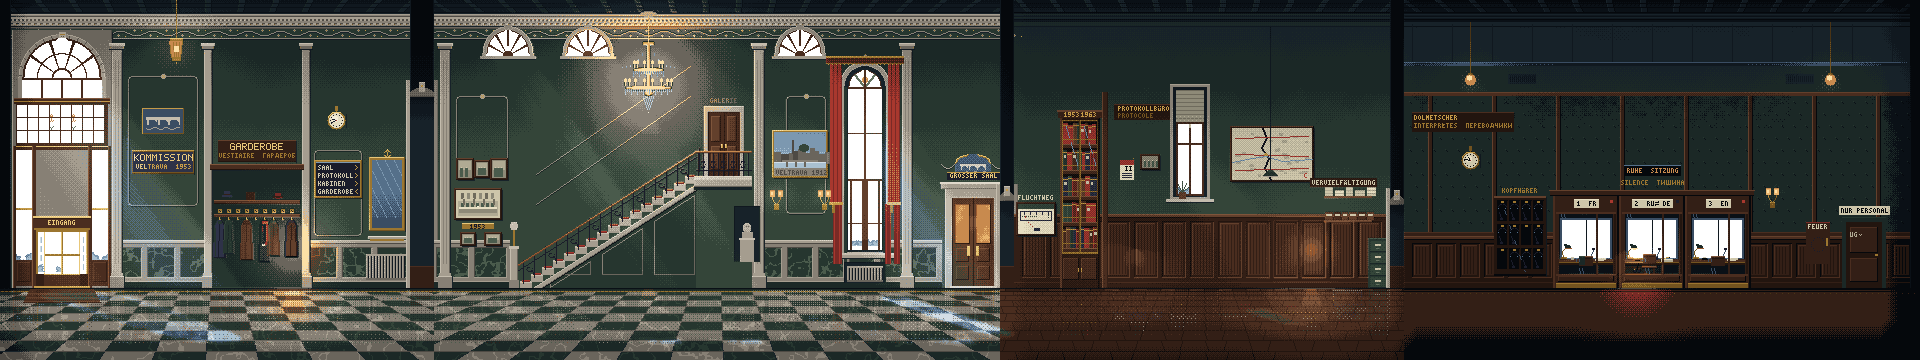
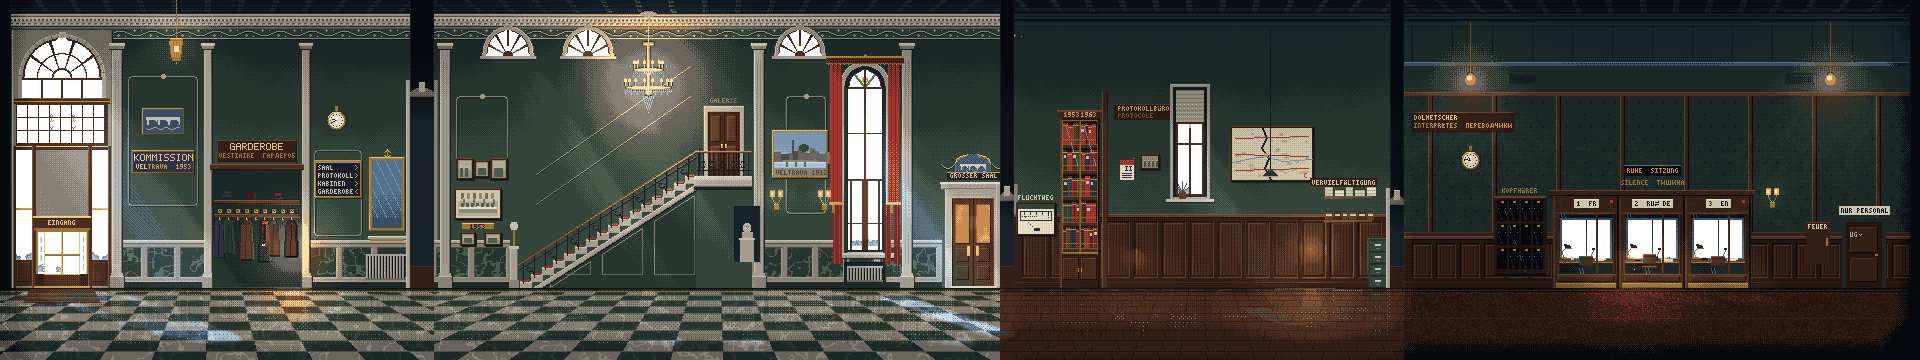
C3 palais art: per-room daylight shafts, cold light through the booth glass, calmer corridor
- window_shafts normalises per room (vestibule / foyer / office / interpreters), so the foyer and
  office windows keep readable dithered shafts next to the big entrance glazing; the veil is stronger
- the booth windows to the daylit Grosser Saal are shaft sources (cold light on the corridor floor)
- interpreters' corridor: less ambient darkening, brighter opal globes, quilted wall lighter,
  carpet painted on the walnut ramp so the booth-2 lamp pool is warm brown, not saturated red
- generation date 2026-11-05 (deterministic: two runs give identical files)

Claude-Session: https://claude.ai/code/session_01Qa4S53QJHqFeoKXkiRwvcM

diff --git a/tools/pixelgen/env_veltrava_hall_room.py b/tools/pixelgen/env_veltrava_hall_room.py
@@ -1320,7 +1320,7 @@ class Room:
         self.wood_dado(x0, x1, top=236, panel_w=20)
         # acoustic wall: quilted dark-green leather bays between walnut battens
         uy0, uy1 = 96, 232
-        lay.rect(x0, uy0, x1 - x0, uy1 - uy0, 'G', 3.0, hgt=0.3)
+        lay.rect(x0, uy0, x1 - x0, uy1 - uy0, 'G', 3.4, hgt=0.3)
         for yy in range(uy0 + 6, uy1, 12):
             for xx in range(x0 + 6 + ((yy // 12) % 2) * 6, x1, 12):
                 lay.px(xx, yy, 'G', 1.6, hgt=0.2)                            # buttons
@@ -1351,7 +1351,7 @@ class Room:
             lay.ellipse(gx - 0.5, L.CEIL + 66, 2.5, 2.5, 'A', 4.6, emis=True)
             lay.rect(gx - 2, L.CEIL + 61, 5, 2, 'B', 3.4, hgt=0.7)
             self.lights.append({'name': 'globe_%d' % gx, 'pos': (gx, L.CEIL + 70), 'kind': 'warm',
-                                'energy': 0.4, 'radius': 96, 'height': 30})
+                                'energy': 0.8, 'radius': 140, 'height': 36})
         # interpreters' sign by the door
         sx = 1414
         lay.rect(sx - 2, 112, kit.text_width('INTERPRÈTES  ПЕРЕВОДЧИКИ') + 4, 20, 'D', 2.0, hgt=0.6)
@@ -1454,7 +1454,7 @@ class Room:
         lay.rect(fx0 - 2, wy0 - 2, fx1 - fx0 + 4, wy1 - wy0 + 3, 'S', 1.6, hgt=-0.5)
         win = np.ones((wy1 - wy0, fx1 - fx0), bool)
         win[:, (fx1 - fx0) // 2] = False
-        self.cut_glass(win, fx0, wy0)
+        self.cut_glass(win, fx0, wy0, shaft=0.35)      # the daylit Saal throws cold light into the corridor
         lay.rect(fx0 + (fx1 - fx0) // 2, wy0, 1, wy1 - wy0, 'S', 1.4, hgt=-0.5)
         self.saal_windows.append((fx0, wy0, fx1, wy1))
         # desk top (seen slightly from above), console, microphone
@@ -1478,7 +1478,7 @@ class Room:
         if lit:
             lay.line(lx + 2, dy - 14, lx + 8, dy - 14, 'A', 5.0, emis=True)
             lay.rect(lx + 4, dy - 13, 3, 1, 'A', 4.6, emis=True)
-            self.lights.append({'name': 'booth_2_lamp', 'pos': (lx + 5, dy - 12), 'kind': 'warm', 'energy': 1.7,
+            self.lights.append({'name': 'booth_2_lamp', 'pos': (lx + 5, dy - 12), 'kind': 'warm', 'energy': 1.4,
                                 'radius': 110, 'height': 10, 'cone': (0.25, 1.0, -0.25)})
         else:
             lay.line(lx + 2, dy - 14, lx + 8, dy - 14, 'A', 2.4, emis=True)
@@ -1628,7 +1628,9 @@ class Room:
             lay.rect(ox0, ra, ox1 - ox0, 1, 'D', 1.6, hgt=0.0)
         # --- interpreters' corridor: wine-dark carpet with a border
         ix0 = L.PART3[1]
-        lay.rect(ix0, y0, W - ix0, H - y0, 'R', 1.6, hgt=0.0)
+        # wine-dark wool: painted on the walnut ramp (same base colour #331F16) so lamp light lifts it to a
+        # warm brown pool instead of a saturated red one; the wine accents are the border and the pile
+        lay.rect(ix0, y0, W - ix0, H - y0, 'D', 2.3, hgt=0.0, gain=0.9)
         tex = pg.white_noise(W - ix0, H - y0, 5)
         lay.put(tex > 0.7, ix0, y0, 'R', 1.9, hgt=0.0)
         for (by, t) in ((y0 + 2, 2.4), (y0 + 3, 1.2), (y0 + 30, 2.2)):
@@ -1652,8 +1654,8 @@ class Room:
         f = np.zeros((H, W), np.float32)
         xs = np.arange(W, dtype=np.float32)
         reg = np.zeros(W, np.float32)
-        reg[L.OFFICE[0]:] = -0.5
-        reg[L.INTERP[0]:] = -1.1
+        reg[L.OFFICE[0]:] = -0.4
+        reg[L.INTERP[0]:] = -0.75
         k = np.ones(25, np.float32) / 25
         reg = np.convolve(np.pad(reg, 12, mode='edge'), k, mode='valid')
         f += reg[None, :]
@@ -1682,38 +1684,53 @@ class Room:
 # =========================================================================== shafts
 def window_shafts(sources, w=L.WORLD_W, h=L.WORLD_H, ax=0.85, kz=0.32):
     """Volumetric daylight from back-wall glass (3-D rays projected to the side view).
-    Returns (air density, floor landing), both ~[0, 1]."""
+    Returns (air density, floor landing), both ~[0, 1].
+    Sources are normalised PER ROOM (vestibule / foyer / office / interpreters): the huge entrance
+    glazing must not drown the single foyer window or the office window, and every room keeps a
+    readable shaft; the strongest source strength of a room sets that room's peak."""
     air = np.zeros((h, w), np.float32)
     land = np.zeros((h, w), np.float32)
-    for (mask, x0, y0, strength) in sources:
-        gy, gx = np.nonzero(mask)
-        if len(gx) == 0:
-            continue
-        sub = max(1, len(gx) // 3000)
-        gy, gx = gy[::sub], gx[::sub]
-        xg = gx.astype(np.float32) + x0 + 0.5
-        yg = gy.astype(np.float32) + y0 + 0.5
-        tend = (L.FLOOR - yg) / (1 + kz)
-        tmax = int(tend.max()) + 1
-        wgt = strength * sub
-        for t in range(0, tmax):
-            alive = tend > t
-            if not alive.any():
-                break
-            sx = np.round(xg[alive] + ax * t).astype(np.int32)
-            sy = np.round(yg[alive] + t * (1 + kz)).astype(np.int32)
-            ok = (sx >= 0) & (sx < w) & (sy >= 0) & (sy < h)
-            np.add.at(air, (sy[ok], sx[ok]), wgt)
-        lx = np.round(xg + ax * tend).astype(np.int32)
-        ly = np.round(L.FLOOR + kz * tend * 0.9).astype(np.int32)
-        ok = (lx >= 0) & (lx < w) & (ly >= 0) & (ly < h)
-        np.add.at(land, (ly[ok], lx[ok]), wgt)
-    air = kit.box_blur(air, 2)
-    land = kit.box_blur(land, 2)
-    if (air > 0).any():
-        air /= max(1e-6, np.percentile(air[air > 0], 99.0))
-    if (land > 0).any():
-        land /= max(1e-6, np.percentile(land[land > 0], 96))
+    rooms = (L.VEST[1], L.FOYER[1], L.OFFICE[1], L.WORLD_W)
+    groups: dict = {}
+    for src in sources:
+        gi = next(i for i, lim in enumerate(rooms) if src[1] < lim)
+        groups.setdefault(gi, []).append(src)
+    for gi, srcs in sorted(groups.items()):
+        g_air = np.zeros((h, w), np.float32)
+        g_land = np.zeros((h, w), np.float32)
+        peak = 0.0
+        for (mask, x0, y0, strength) in srcs:
+            gy, gx = np.nonzero(mask)
+            if len(gx) == 0:
+                continue
+            peak = max(peak, float(strength))
+            sub = max(1, len(gx) // 3000)
+            gy, gx = gy[::sub], gx[::sub]
+            xg = gx.astype(np.float32) + x0 + 0.5
+            yg = gy.astype(np.float32) + y0 + 0.5
+            tend = (L.FLOOR - yg) / (1 + kz)
+            tmax = int(tend.max()) + 1
+            wgt = strength * sub
+            for t in range(0, tmax):
+                alive = tend > t
+                if not alive.any():
+                    break
+                sx = np.round(xg[alive] + ax * t).astype(np.int32)
+                sy = np.round(yg[alive] + t * (1 + kz)).astype(np.int32)
+                ok = (sx >= 0) & (sx < w) & (sy >= 0) & (sy < h)
+                np.add.at(g_air, (sy[ok], sx[ok]), wgt)
+            lx = np.round(xg + ax * tend).astype(np.int32)
+            ly = np.round(L.FLOOR + kz * tend * 0.9).astype(np.int32)
+            ok = (lx >= 0) & (lx < w) & (ly >= 0) & (ly < h)
+            np.add.at(g_land, (ly[ok], lx[ok]), wgt)
+        g_air = kit.box_blur(g_air, 2)
+        g_land = kit.box_blur(g_land, 2)
+        if (g_air > 0).any():
+            g_air *= peak / max(1e-6, np.percentile(g_air[g_air > 0], 99.0))
+        if (g_land > 0).any():
+            g_land *= peak / max(1e-6, np.percentile(g_land[g_land > 0], 96))
+        air = np.maximum(air, g_air)
+        land = np.maximum(land, g_land)
     return np.clip(air, 0, 1.2), np.clip(land, 0, 1.2)
 
 
@@ -1744,7 +1761,7 @@ def bake(room: Room, extra_lights=None):
     room.shaft_air, room.shaft_land = air, land
     floor = np.zeros_like(air)
     floor[L.FLOOR:, :] = 1.0
-    F['cold'] += (air ** 0.85) * 0.5 + land * floor * 0.8
+    F['cold'] += (air ** 0.85) * 0.55 + land * floor * 0.9
     # warm lamp pools on the polished floors
     for lt in lights:
         if lt['kind'] == 'warm' and lt.get('pool'):

diff --git a/tools/pixelgen/env_veltrava_hall.py b/tools/pixelgen/env_veltrava_hall.py
@@ -42,7 +42,7 @@ DYN = {
     'chandelier': (1.05, 200, 44, 0.0, 'warm'), 'sconce_buffet_l': (0.28, 60, 14, 0.03, 'warm'),
     'sconce_buffet_r': (0.28, 60, 14, 0.03, 'warm'), 'saal_doors': (0.6, 92, 8, 0.0, 'warm'),
     'typist_lamp': (0.5, 80, 16, 0.03, 'warm'), 'table_lamp': (0.95, 120, 10, 0.02, 'warm'),
-    'globe_1470': (0.28, 90, 30, 0.0, 'warm'), 'globe_1830': (0.28, 90, 30, 0.0, 'warm'),
+    'globe_1470': (0.42, 120, 32, 0.0, 'warm'), 'globe_1830': (0.42, 120, 32, 0.0, 'warm'),
     'booth_1_lamp': (0.28, 46, 8, 0.0, 'warm'), 'booth_2_lamp': (1.0, 110, 10, 0.02, 'warm'),
     'booth_3_lamp': (0.28, 46, 8, 0.0, 'warm'), 'saal_glow_1': (0.32, 64, 4, 0.0, 'white'),
     'saal_glow_2': (0.32, 64, 4, 0.0, 'white'), 'saal_glow_3': (0.32, 64, 4, 0.0, 'white'),
@@ -144,7 +144,7 @@ def build_scene():
                desc='volumetric daylight-shaft veil (soft alpha, plain alpha blending)')
     layers.append({'name': 'shafts', 'file': 'shafts.png', 'pos': [0, 0], 'parallax': [1, 1], 'z': Z['shafts'],
                    'normal': False, 'emission': False, 'lit': False,
-                   'note': 'soft alpha veil (max ~16 %); reads as dithered light in front of actors'})
+                   'note': 'soft alpha veil (max ~21 %); reads as dithered light in front of actors'})
     save_layer(fg, os.path.join(ENV_DIR, 'fg_frame'), normal=False, gen='env_veltrava_hall_fg.py',
                desc='foreground framing silhouettes (columns, velvet drapes, palm, chair)')
     layers.append({'name': 'fg_frame', 'file': 'fg_frame.png', 'pos': [0, 0], 'parallax': [L.PARALLAX['fg_frame'], 1.0],
@@ -240,12 +240,12 @@ def build_shaft_overlay(room):
     lay = pg.Layer(W, H, 'shafts')
     y = np.arange(H, dtype=np.float32)[:, None]
     fade = np.clip((L.FLOOR + 26 - y) / 50, 0, 1) * np.clip((y - 20) / 40, 0, 1)
-    a = (np.clip(air, 0, 1) ** 1.3) * fade
+    a = (np.clip(air, 0, 1) ** 1.05) * fade
     a[room.glass] = 0
     from env_veltrava_hall_kit import dilate
     near_glass = dilate(room.glass, 3)
     a[near_glass] *= 0.25
-    alpha = np.clip(np.round(a * 42), 0, 255).astype(np.uint8)
+    alpha = np.clip(np.round(a * 54), 0, 255).astype(np.uint8)
     col = pg.hx(kit.PALAIS['daylight'][4])
     lay.c[..., 0], lay.c[..., 1], lay.c[..., 2] = col[0], col[1], col[2]
     lay.c[..., 3] = alpha

diff --git a/tools/pixelgen/env_veltrava_hall_kit.py b/tools/pixelgen/env_veltrava_hall_kit.py
@@ -27,7 +27,7 @@ HERE = os.path.dirname(os.path.abspath(__file__))
 sys.path.insert(0, HERE)
 import pg  # noqa: E402
 
-DATE = '2026-11-04'
+DATE = '2026-11-05'
 ROOT = os.path.abspath(os.path.join(HERE, '..', '..'))
 
 # --------------------------------------------------------------------------- palettes
